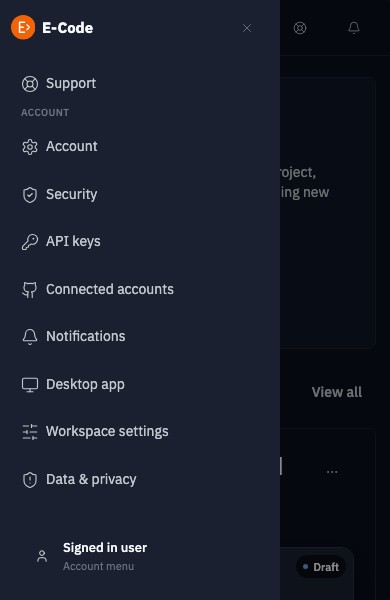
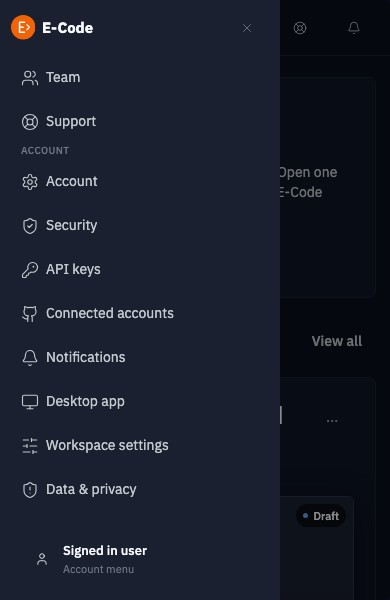
docs(ui): record responsive user-area evidence

diff --git a/BUG_INVENTORY_LIVE.md b/BUG_INVENTORY_LIVE.md
@@ -7,9 +7,11 @@
 | BUG-UX-001 | Le CTA « Resume project » est ambigu quand plusieurs projets existent : le projet ciblé n'est pas nommé et aucun choix n'est proposé | ✅ | ✅ | ✅ | `8a08f570` poussé sur `main`. Test E2E avec compte et deux projets réels : CTA `Resume Operations dashboard` vers le projet le plus récent, `Choose project` vers `/projects`, `New project` vers `/projects/new`. Captures clair/sombre 1440 px dans `docs/ui-ux-evidence/2026-07-14/`. |
 | BUG-UX-002 | Le menu de navigation mobile et tablette ne peut pas défiler sur les écrans de faible hauteur | ✅ | ✅ | ✅ | `7cf6d1cc` poussé sur `main`. Scroll réellement exécuté à 390×600, 768×600 et 1024×600 ; `scrollHeight > clientHeight`, `scrollTop > 0`, dernière entrée visible, cibles ≥44 px et aucun débordement horizontal. Captures clair/sombre 390 px dans `docs/ui-ux-evidence/2026-07-14/`. |
 | BUG-BRAND-001 | Le splash pré-hydratation « Loading E-Code » affiche encore le carré orange hérité de bolt.diy sur l’IDE et les pages marketing ; audit complet favicon/PWA/OG/title/assets requis | ✅ | ✅ | ✅ | Correctif `b1404989` poussé sur `main` ; déploiement `29346264927` vert. Test pré-hydratation réel sur `app.e-code.ai` et `e-code.ai`, clair/sombre : 4/4 PASS, SVG inline, variante exclusive correcte, zéro image externe et zéro carré legacy. Captures + rapport : `docs/ui-ux-evidence/2026-07-14/branding-splash/`. |
-| BUG-UX-003 | Les actions d’en-tête « Resume project » et « Choose project » font doublon avec la grille triée par activité et le bouton « Open IDE » de chaque projet | ✅ | ☐ | ☐ | Signalé par Avi le 2026-07-14. Supprimer ces actions redondantes et conserver une action de création claire. |
-| BUG-UX-004 | La navigation de l’espace utilisateur est trop espacée sur mobile et tablette | ✅ | ☐ | ☐ | Signalé par Avi le 2026-07-14. Densifier les espacements sans réduire les cibles tactiles sous 44 px, puis valider à 390/768/1024/1440. |
+| BUG-UX-003 | Les actions d’en-tête « Resume project » et « Choose project » font doublon avec la grille triée par activité et le bouton « Open IDE » de chaque projet | ✅ | ☐ | ✅ | Signalé par Avi le 2026-07-14. Validé en réel avec deux projets triés par activité : aucun CTA Resume/Choose, deux liens Open IDE et New project conservé. Captures `dashboard-project-actions-{light,dark}.jpg` ; Playwright responsive vert. 💻 reste à cocher après push. |
+| BUG-UX-004 | La navigation de l’espace utilisateur est trop espacée sur mobile et tablette | ✅ | ☐ | ✅ | Signalé par Avi le 2026-07-14. Espacements densifiés avec cibles ≥44 px ; scroll et absence de débordement validés à 390/768/1024/1440. Captures `mobile-navigation-scroll-{light,dark}.jpg`. 💻 reste à cocher après push. |
 | BUG-UX-005 | Le loader global plein écran peut recouvrir un dashboard déjà rendu pendant plus de 30 secondes lors d’un fetch ou d’une revalidation secondaire | ✅ | ✅ | ✅ | `GlobalRouteLoader` est désormais piloté uniquement par `useNavigation`; les fetchers/revalidations secondaires conservent leur UI locale. Reproduction E2E exacte validée le 2026-07-14 sur `127.0.0.1:5176` avec backend réel `3001` et captures activées : `1 passed (37.5s)`, loader `aria-hidden="true"` et opacité `0` sur toutes les captures. |
 | BUG-API-001 | Le gate global TypeScript est bloqué par cinq erreurs TS18046 dans `services/api/src/prisma-store.ts` lorsque le code Prisma inspecte un `error` de type `unknown` | ✅ | ✅ | ✅ | Type guard Prisma explicite, sans cast `any` ni changement de contrat métier. Store spec : 6 tests verts, 3 intégrations DB skippées ; typecheck API et `pnpm typecheck` global verts ; lint root 0 erreur. Correctif backend `a64d685c`. |
 | BUG-CI-001 | Le spec des types de déploiement attend encore que `scheduled` soit indisponible alors que le backend scheduler le marque disponible, ce qui casse la suite globale | ✅ | ✅ | ✅ | Le spec reflète désormais le contrat backend : `static`, `autoscale` et `scheduled` sont disponibles, `reserved-vm` reste indisponible. Test ciblé : 5/5 ; suite globale : 515 fichiers et 3 850 tests verts le 2026-07-14. |
 | BUG-API-002 | Le scheduler local interroge `ScheduledTask` à chaque tick alors que la relation n'existe pas dans la base locale | ✅ | ✅ | ✅ | La migration existante `0069_scheduled_tasks` était en attente, pas absente. Le `predev` API déploie désormais les migrations avant le scheduler. Validé sur PostgreSQL 16 vierge (72 migrations, second passage no-op, tables/enums/index/PK/FK), puis sur la base locale `:55432` : statut à jour, `/health` 200 et ticks à 500 ms sans erreur ; 58 tests verts, 3 intégrations DB skippées. |
+| BUG-UX-006 | La route `/account-settings/data` marque simultanément « Account » et « Data & privacy » comme éléments actifs dans la sidebar | ✅ | ☐ | ✅ | Corrigé et vérifié en réel le 2026-07-14 : une seule ancre visible porte `aria-current="page"`, avec le libellé « Data & privacy ». Capture `account-data-light-1440.jpg` et Playwright vert. 💻 reste à cocher après push. |
+| BUG-UX-007 | Les panneaux « Organization members » et « Data & privacy » peuvent remplacer leur contenu par une erreur de route sans état local récupérable | ✅ | ☐ | ✅ | Injection de panne réelle via une instance web reliée à un port API indisponible : contrôles membres/export/suppression masqués, message explicite, retry fonctionnel et cible ≥44 px, sans débordement à 1440 clair et 390 sombre. Captures `organization-members-error-*` et `account-data-error-*` ; Playwright `1 passed`. 💻 reste à cocher après push. |
